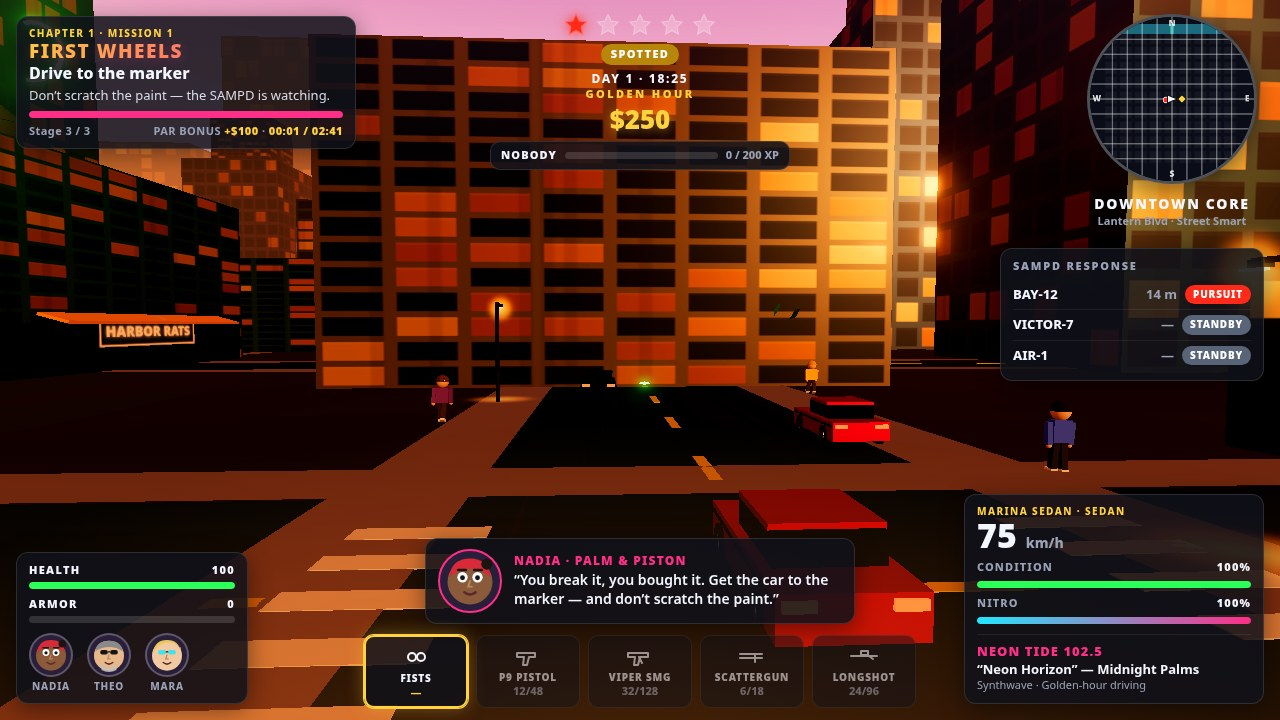
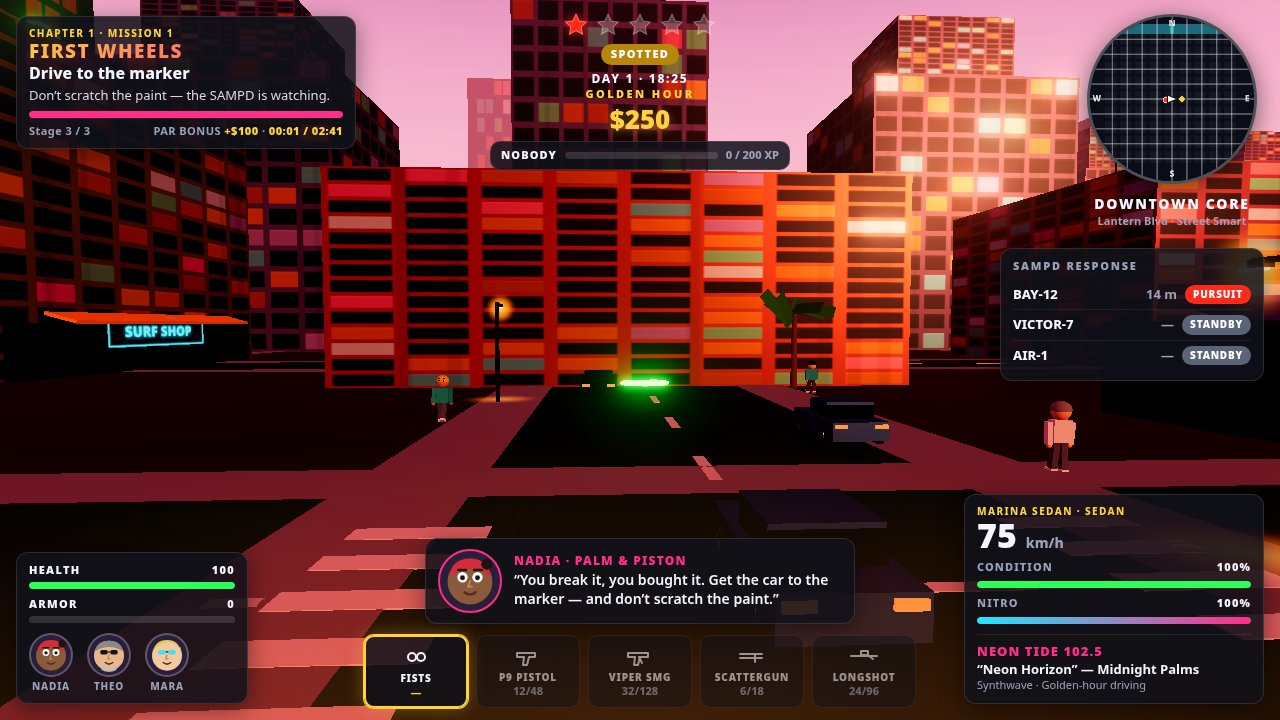
Add colour variety (Mu feedback 20:52, recording 01a1f3e5)

diff --git a/game/src/city.js b/game/src/city.js
@@ -42,7 +42,7 @@ function windowTexture(base, lit) {
         if (isLit) {
           // Calm amber: dimmed so lit windows read as warm rooms, not a
           // blazing wall (the old near-white golds blew out under bloom).
-          const warm = pick(['#c98a3d', '#b87a2e', '#d9a55a', '#a86a2a']);
+          const warm = pick(['#c98a3d', '#b87a2e', '#d9a55a', '#a86a2a', '#6ab8c8', '#d97a9a', '#7ac8a0', '#a88ac8', '#cfd8e8', '#c98a3d']);
           g.fillStyle = warm; g.fillRect(px, py, cw - 6, ch - 8);
           g.fillStyle = 'rgba(255,255,255,.08)';
           g.fillRect(px, py, cw - 6, 3);
@@ -114,9 +114,12 @@ function initMaterials() {
     color: 0x1b6a7d, roughness: 0.14, metalness: 0.88, envMapIntensity: 1.5,
   });
   MAT.roof = new THREE.MeshStandardMaterial({ color: 0x3a3640, roughness: 0.95 });
+  MAT.bridgeDeck = new THREE.MeshStandardMaterial({ color: 0x2e3a4a, roughness: 0.9, metalness: 0.1 });
   MAT.awningPink = new THREE.MeshStandardMaterial({ color: 0xd94f7a, roughness: 0.7 });
   MAT.awningTeal = new THREE.MeshStandardMaterial({ color: 0x2fa8a0, roughness: 0.7 });
   MAT.awningGold = new THREE.MeshStandardMaterial({ color: 0xe8a33d, roughness: 0.7 });
+  MAT.awningPurple = new THREE.MeshStandardMaterial({ color: 0x8a5ac8, roughness: 0.7 });
+  MAT.awningCyan = new THREE.MeshStandardMaterial({ color: 0x2fa8d8, roughness: 0.7 });
 }
 
 // ---- small builders ----
@@ -217,7 +220,7 @@ export function buildCity(scene) {
     // centre dashes
     for (let x = -270; x < 270; x += 9) {
       const d = box(3.2, 0.02, 0.35,
-        new THREE.MeshStandardMaterial({ color: 0xd8c25a, roughness: 0.7 }), x, 0.04, z, scene);
+        new THREE.MeshStandardMaterial({ color: 0xd8d8d8, roughness: 0.7 }), x, 0.04, z, scene);
       d.receiveShadow = false;
     }
   }
@@ -232,7 +235,7 @@ export function buildCity(scene) {
     }
     for (let z = -250; z < 250; z += 9) {
       box(0.35, 0.02, 3.2,
-        new THREE.MeshStandardMaterial({ color: 0xd8c25a, roughness: 0.7 }), x, 0.04, z, scene);
+        new THREE.MeshStandardMaterial({ color: 0xd8d8d8, roughness: 0.7 }), x, 0.04, z, scene);
     }
   }
   // Crosswalk stripes at the main intersections.
@@ -285,7 +288,7 @@ export function buildCity(scene) {
   // ---- lift bridge (signature set-piece, at x=0 crossing the canal) ----
   const bridge = new THREE.Group();
   // deck (the road continues across)
-  const deck = box(13, 0.8, canalD + 8, MAT.asphalt, 0, 0.1, BRIDGE.z, bridge);
+  const deck = box(13, 0.8, canalD + 8, MAT.bridgeDeck, 0, 0.1, BRIDGE.z, bridge);
   // striped gates (yellow/black) at both ends
   const stripeTex = canvasTex(128, 32, (g, w, h) => {
     for (let i = 0; i < 8; i++) { g.fillStyle = i % 2 ? '#111' : '#ffd23e'; g.fillRect(i * 16, 0, 16, h); }
@@ -327,10 +330,10 @@ export function buildCity(scene) {
   // blaze. ~1 in 3 windows lit now, so buildings read as dark masses
   // with scattered warm rooms.
   const facades = [
-    { base: '#3a4a63', lit: 0.35 }, { base: '#5a4632', lit: 0.3 },
-    { base: '#6b3a44', lit: 0.32 }, { base: '#2f3a4a', lit: 0.38 },
-    { base: '#7a6a55', lit: 0.28 }, { base: '#4a3a5a', lit: 0.32 },
-    { base: '#33505a', lit: 0.35 },
+    { base: '#3a6a7a', lit: 0.35 }, { base: '#8a4a5e', lit: 0.3 },
+    { base: '#5a7a4e', lit: 0.32 }, { base: '#4a6a9a', lit: 0.38 },
+    { base: '#6a5a8a', lit: 0.28 }, { base: '#a85a42', lit: 0.32 },
+    { base: '#7a6a3e', lit: 0.35 }, { base: '#5a4a6a', lit: 0.3 },
   ];
   const shopSigns = [
     ['NEON COLA', '#ff2e88'], ['TACO PALACE', '#ff5a3d'], ['DONUT DRIVE', '#ff9a3d'],
@@ -338,7 +341,7 @@ export function buildCity(scene) {
     ['SLICE RUNNER', '#ffd23e'], ['HARBOR RATS', '#c98a5a'], ['THREAD HOUSE', '#f2f2f2'],
     ['MABEL\u2019S PIE', '#ff8a9a'], ['VELVET ROPE', '#ffd23e'], ['K-VIBE 91.1', '#ff2ec8'],
   ];
-  const awnMats = [MAT.awningPink, MAT.awningTeal, MAT.awningGold];
+  const awnMats = [MAT.awningPink, MAT.awningTeal, MAT.awningGold, MAT.awningPurple, MAT.awningCyan];
   let signIdx = 0;
   // Glass Spire (tallest tower, finale heist site) at (120,-120)
   const spire = new THREE.Group();

diff --git a/game/src/main.js b/game/src/main.js
@@ -28,7 +28,7 @@ renderer.outputColorSpace = THREE.SRGBColorSpace;
 document.getElementById('app').appendChild(renderer.domElement);
 
 const scene = new THREE.Scene();
-scene.fog = new THREE.Fog(0xe88a5a, 90, 780);
+scene.fog = new THREE.Fog(0xd9788a, 90, 780);
 const camera = new THREE.PerspectiveCamera(55, window.innerWidth / window.innerHeight, 0.1, 2000);
 camera.position.set(0, 4, -12);
 
@@ -46,13 +46,13 @@ const SUN_DIR = new THREE.Vector3(-0.78, 0.20, 0.42).normalize();
         float h = d.y;
         vec3 top = vec3(0.11, 0.07, 0.26);
         vec3 mid = vec3(0.96, 0.36, 0.52);
-        vec3 hor = vec3(1.0, 0.52, 0.13);
+        vec3 hor = vec3(1.0, 0.38, 0.34);
         vec3 col = mix(hor, mid, smoothstep(0.02, 0.28, h));
         col = mix(col, top, smoothstep(0.22, 0.68, h));
         col = mix(vec3(0.16,0.10,0.20), col, smoothstep(-0.08, 0.02, h));
         float s = max(dot(d, sunDir), 0.0);
-        col += vec3(1.0, 0.55, 0.18) * pow(s, 18.0) * 0.45;
-        col += vec3(1.0, 0.78, 0.42) * pow(s, 220.0) * 1.3;
+        col += vec3(1.0, 0.42, 0.34) * pow(s, 18.0) * 0.45;
+        col += vec3(1.0, 0.72, 0.52) * pow(s, 220.0) * 1.3;
         gl_FragColor = vec4(col, 1.0);
       }`,
   });
@@ -63,8 +63,8 @@ const SUN_DIR = new THREE.Vector3(-0.78, 0.20, 0.42).normalize();
   const gg = gc.getContext('2d');
   const grad = gg.createRadialGradient(64, 64, 2, 64, 64, 62);
   grad.addColorStop(0, 'rgba(255,230,160,1)');
-  grad.addColorStop(0.35, 'rgba(255,150,60,.7)');
-  grad.addColorStop(1, 'rgba(255,120,0,0)');
+  grad.addColorStop(0.35, 'rgba(255,120,90,.7)');
+  grad.addColorStop(1, 'rgba(255,80,80,0)');
   gg.fillStyle = grad; gg.fillRect(0, 0, 128, 128);
   const sunTex = new THREE.CanvasTexture(gc);
   const sunSprite = new THREE.Sprite(new THREE.SpriteMaterial({ map: sunTex, transparent: true, blending: THREE.AdditiveBlending, depthWrite: false, opacity: 0.7 }));
@@ -83,7 +83,7 @@ const SUN_DIR = new THREE.Vector3(-0.78, 0.20, 0.42).normalize();
     g.fillStyle = gr; g.fillRect(0, 0, 4, 256);
     return c;
   };
-  const side = mk('#3a2a5a', '#ff6a8a', '#ff8a2a');
+  const side = mk('#3a2a5a', '#ff5a9a', '#e85a7a');
   const topF = mk('#2a1a4a', '#3a2a5a', '#5a3a6a');
   const botF = mk('#1a1218', '#241a20', '#2a1a16');
   faces.push(side, side, topF, botF, side, side);
@@ -93,11 +93,11 @@ const SUN_DIR = new THREE.Vector3(-0.78, 0.20, 0.42).normalize();
 }
 
 // ---------- lights ----------
-const sun = new THREE.DirectionalLight(0xffb36b, 1.9);
+const sun = new THREE.DirectionalLight(0xff9a70, 1.9);
 sun.position.copy(SUN_DIR).multiplyScalar(320);
 scene.add(sun);
-scene.add(new THREE.HemisphereLight(0xff9a6a, 0x2a2438, 0.85));
-scene.add(new THREE.AmbientLight(0xff8a5a, 0.35));
+scene.add(new THREE.HemisphereLight(0xff7a9a, 0x2a2438, 0.85));
+scene.add(new THREE.AmbientLight(0xff7a8a, 0.35));
 
 // ---------- bloom (real, via the vendored bundle) — falls back to direct render ----------
 let composer = null;

diff --git a/game/src/shots.js b/game/src/shots.js
@@ -115,7 +115,7 @@ function shotShootout(G) {
   // Two Saltjacks at ~9-11 m, scaled up, one in a white shirt, one in yellow.
   const enemies = [
     { x: -5.5, z: -219, shirt: 0xf2f2f2, scale: 1.18 },
-    { x: 4.5, z: -221, shirt: 0xffd23e, scale: 1.18 },
+    { x: 4.5, z: -221, shirt: 0x22e6ff, scale: 1.18 },
     { x: 0.5, z: -228, shirt: 0x2f7a3d, scale: 1.1 },
   ];
   G.stagedEnemies.forEach((e, i) => {
@@ -257,15 +257,9 @@ function shotJump(G) {
   sedan.group.rotation.set(0, Math.PI, 0); // facing north, jumping toward the camera
   setAirPitch(sedan, 0.32, 5.2); // nose-up, lifted
   G.playerCar.group.visible = false;
-  // FIX 3: the canal water must read — it is already shiny (metalness +
-  // envMap) with a sun glint + ripple rings; here we add a bright reflection
-  // streak right under the jump and lift the water's sun glint.
-  const streak = new THREE.Mesh(new THREE.PlaneGeometry(60, 16),
-    new THREE.MeshBasicMaterial({ color: 0xffb36b, transparent: true, opacity: 0.85, blending: THREE.AdditiveBlending, depthWrite: false }));
-  streak.rotation.x = -Math.PI / 2; streak.rotation.z = 0.5;
-  streak.position.set(0, 0.06, -282);
-  scene.add(streak);
-  G.shotProps.push(streak);
+  // NOTE: the wide warm "reflection streak" under the jump was removed —
+  // it read as a pale-yellow wash across the whole foreground. The canal
+  // water already reads via its shiny material + sun glint + ripple rings.
   // police: BAY-12 at the bridge approach, boxed in
   G.police[0].group.position.set(-18, 0, -252);
   G.police[0].group.rotation.set(0, Math.PI, 0);

diff --git a/game/src/vehicles.js b/game/src/vehicles.js
@@ -17,7 +17,7 @@ const LED = new THREE.MeshStandardMaterial({ color: 0x22e6ff, emissive: 0x22e6ff
 // Car specs (from the spec §7; colours matched to the reference screenshots).
 const SPECS = {
   comet:    { name: 'Comet GT',     kind: 'Sports',  top: 52, color: 0xff2e6a, wing: true,  led: true },
-  sedan:    { name: 'Marina Sedan', kind: 'Sedan',   top: 42, color: 0xe83a4d, wing: false, led: false },
+  sedan:    { name: 'Marina Sedan', kind: 'Sedan',   top: 42, color: 0x4a7ab5, wing: false, led: false },
   muscle:   { name: 'Bruiser',      kind: 'Muscle',  top: 46, color: 0x1c1c22, wing: false, led: false },
   van:      { name: 'Hopper Van',   kind: 'Van',     top: 36, color: 0xe8dcc0, wing: false, led: false },
   truck:    { name: 'Longhaul',     kind: 'Truck',   top: 33, color: 0xc96a2e, wing: false, led: false },
